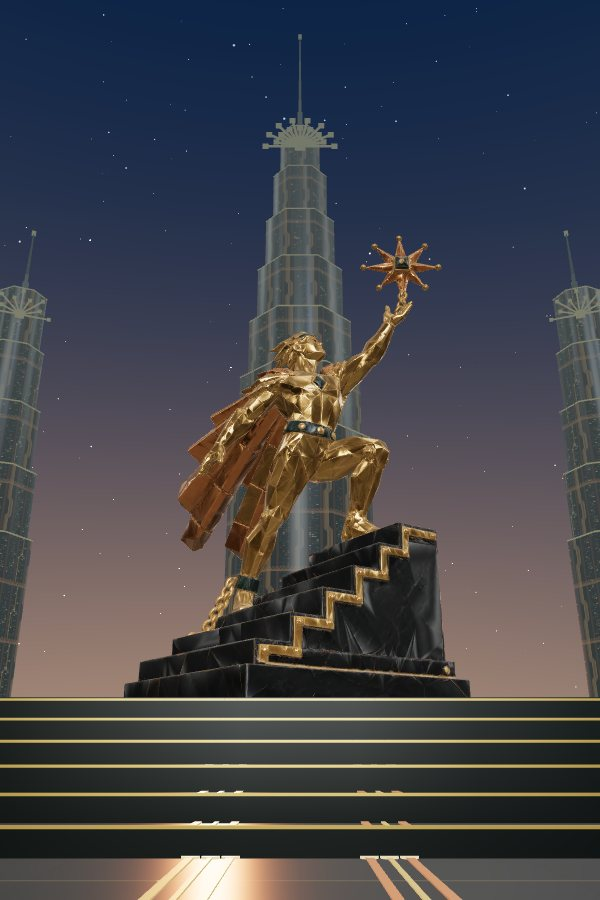
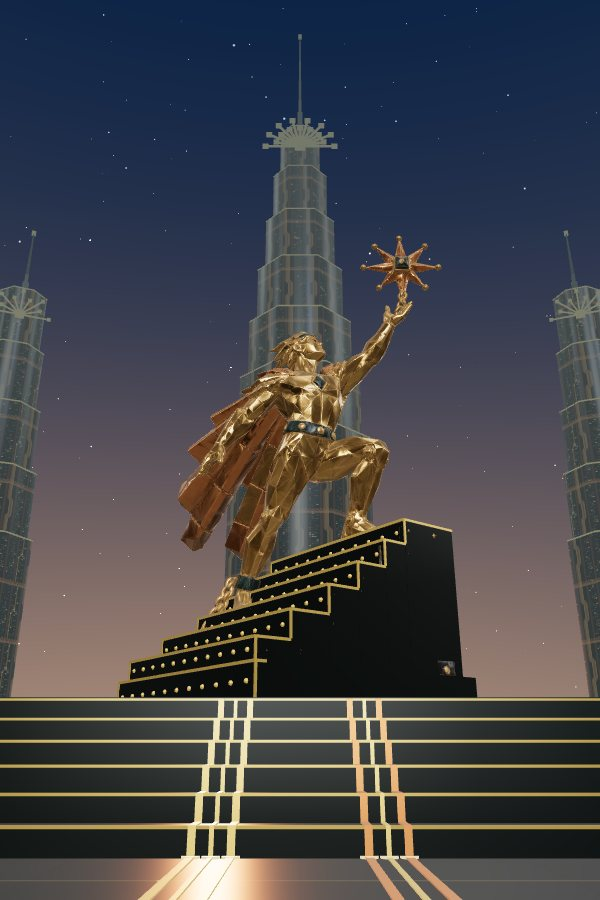
Ad Astra: his steps drawn in code; buses climb the stair unbroken
Meshy's granite smeared at 24 m, and his steps cannot be cut like a plinth
since his feet stand on different treads. The staircase is measured from the
model (a base slab and six treads, 0.53 rise, turned 53 degrees) and rebuilt
a few centimetres proud of it in clean granite, with gold nosings, a stepped
gold rail down each side and studs on every riser. On the terrace stair the
centre buses now run down each riser too, so they climb as one run.

Claude-Session: https://claude.ai/code/session_01A6Jj3xDDNxQ4ycFxda9Tv7

Changed region(s): [[0.18, 0.56, 0.81, 0.9644]]

diff --git a/web/src/scene/Statue.tsx b/web/src/scene/Statue.tsx
@@ -1,7 +1,7 @@
 import { useFrame, useThree } from "@react-three/fiber";
 import { useEffect, useMemo, useRef, useState } from "react";
 import {
-  AdditiveBlending, Box3, BoxGeometry, Color, CylinderGeometry, EdgesGeometry, type Group, InstancedMesh,
+  AdditiveBlending, Box3, BoxGeometry, Color, CylinderGeometry, EdgesGeometry, Group, InstancedMesh,
   type LineSegments, Mesh, MeshStandardMaterial, Object3D, Plane, SphereGeometry, SRGBColorSpace,
   type Texture, TextureLoader, Vector3,
 } from "three";
@@ -72,6 +72,46 @@ function fitTiers(root: Object3D, cut: number): [number, number, number] {
   return [top + 1.0, top + 0.5, top];
 }
 
+/**
+ * Ad Astra's steps, redrawn. Meshy's granite smears when he is scaled to 24 m,
+ * and he cannot be cut like a plinth: his feet stand on different steps. So
+ * the code builds his staircase as measured from the model (a base slab and six
+ * treads, rising 0.53 per step, turned 53 degrees in plan), a few centimetres
+ * proud of the old one so it hides it, in clean granite with gold nosings, a
+ * stepped gold rail down each side and studs on every riser. Model units.
+ */
+function astraSteps(material: MeshStandardMaterial, gold: MeshStandardMaterial): Group {
+  const g = new Group();
+  g.rotation.y = -53 * (Math.PI / 180);
+  const m = 0.05; // how far proud of the model's own steps
+  const back = -2.25 - m;
+  const tops = [0.62, 1.06, 1.59, 2.14, 2.67, 3.23, 3.76];
+  const fronts = [2.96, 2.75, 2.02, 1.15, 0.42, -0.31, -0.9];
+  const spans: [number, number][] = tops.map((_, i) => (i === 0 ? [-2.27, 2.78] : [-2.25, 2.45]));
+  const add = (mesh: Mesh) => { mesh.castShadow = true; mesh.receiveShadow = true; g.add(mesh); };
+  tops.forEach((top, i) => {
+    const [u0, u1] = spans[i]!;
+    const w = u1 - u0 + 2 * m, h = top + 0.025, d = fronts[i]! + m - back;
+    const uc = (u0 + u1) / 2, vc = (fronts[i]! + m + back) / 2;
+    add(new Mesh(new BoxGeometry(w, h, d), material).translateX(uc).translateY(h / 2).translateZ(vc));
+    // Gold nosing along the tread's front edge.
+    add(new Mesh(new BoxGeometry(w + 0.02, 0.05, 0.07), gold).translateX(uc).translateY(h - 0.02).translateZ(fronts[i]! + m));
+    // The stepped rail: a gold edge along each side of the tread and down each riser.
+    const rise = i === 0 ? h : h - (tops[i - 1]! + 0.025);
+    const run = i === tops.length - 1 ? d : fronts[i]! - fronts[i + 1]!;
+    for (const su of [u0 - m - 0.01, u1 + m + 0.01]) {
+      add(new Mesh(new BoxGeometry(0.03, 0.05, run), gold).translateX(su).translateY(h - 0.02).translateZ(fronts[i]! + m - run / 2));
+      add(new Mesh(new BoxGeometry(0.03, rise, 0.05), gold).translateX(su).translateY(h - rise / 2).translateZ(fronts[i]! + m));
+    }
+    // Studs along the riser.
+    const n = Math.max(2, Math.round(w / 0.45));
+    for (let k = 0; k < n; k++) {
+      add(new Mesh(new SphereGeometry(0.045, 8, 6), gold).translateX(u0 - m + ((k + 0.5) * w) / n).translateY(h - rise / 2).translateZ(fronts[i]! + m + 0.01));
+    }
+  });
+  return g;
+}
+
 function useModel(s: Spirit): Loaded | null {
   const [scene, setScene] = useState<Loaded | null>(null);
   const markFailed = useStore((st) => st.markFailed);
@@ -110,6 +150,12 @@ function useModel(s: Spirit): Loaded | null {
             }
           }
         });
+        if (s.id === "astra") {
+          const granite = new MeshStandardMaterial({ color: "#0e1412", roughness: 0.28, metalness: 0.35 });
+          const gold = new MeshStandardMaterial({ color: C.gold, metalness: 0.9, roughness: 0.3, emissive: C.gold, emissiveIntensity: 0.2 });
+          uplight(granite, s.base, 0.55, 4.5);
+          root.add(astraSteps(granite, gold));
+        }
         const tiers = op && !op.tiers ? fitTiers(root, plinthHeight(s)) : null;
         if (live) setScene({ root, tiers });
       },

diff --git a/web/src/scene/Plaza.tsx b/web/src/scene/Plaza.tsx
@@ -358,11 +358,21 @@ function Terrace() {
             <mesh material={gold} position={[0, h, zz + depth / 2 - 0.05]}>
               <boxGeometry args={[2 * stairHalf, 0.06, 0.12]} />
             </mesh>
-            {busX.flatMap(lanes).map((lx, k) => (
-              <mesh key={k} material={k % 3 === 1 ? trace : busX[Math.floor(k / 3)]! > 0 ? copper : trace} position={[lx, h + 0.016, zz]}>
-                <boxGeometry args={[k % 3 === 1 ? BUS.width * 0.6 : BUS.width, 0.03, depth]} />
-              </mesh>
-            ))}
+            {/* The buses climb as one run: along each tread and down its riser. */}
+            {busX.flatMap(lanes).map((lx, k) => {
+              const mat = k % 3 === 1 ? trace : busX[Math.floor(k / 3)]! > 0 ? copper : trace;
+              const w = k % 3 === 1 ? BUS.width * 0.6 : BUS.width;
+              return (
+                <group key={k}>
+                  <mesh material={mat} position={[lx, h + 0.016, zz]}>
+                    <boxGeometry args={[w, 0.03, depth]} />
+                  </mesh>
+                  <mesh material={mat} position={[lx, h - rise / 2 + 0.015, zz + depth / 2 + 0.016]}>
+                    <boxGeometry args={[w, rise + 0.03, 0.03]} />
+                  </mesh>
+                </group>
+              );
+            })}
           </group>
         );
       })}
